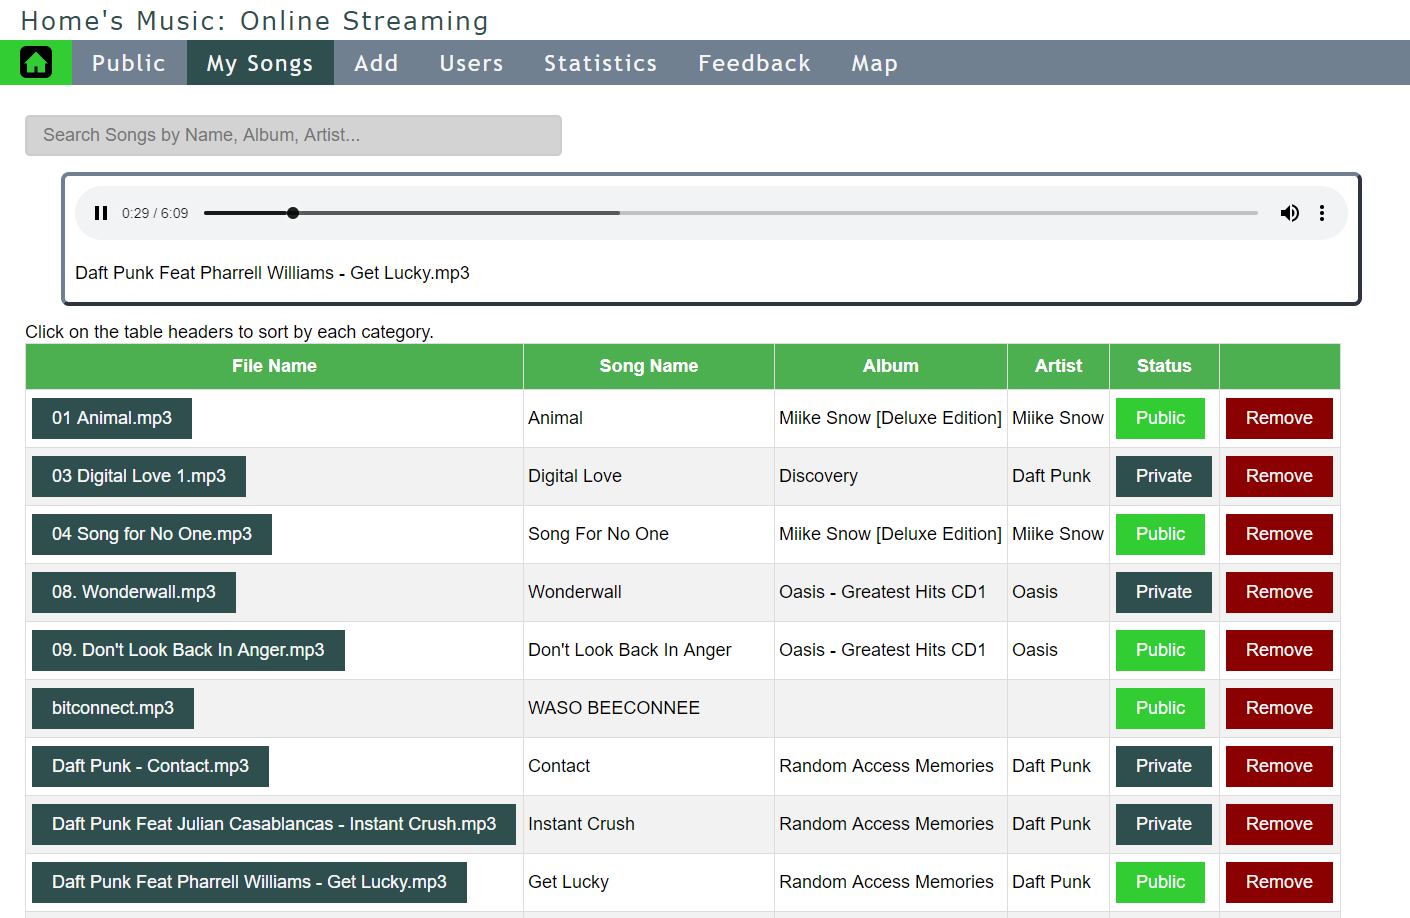
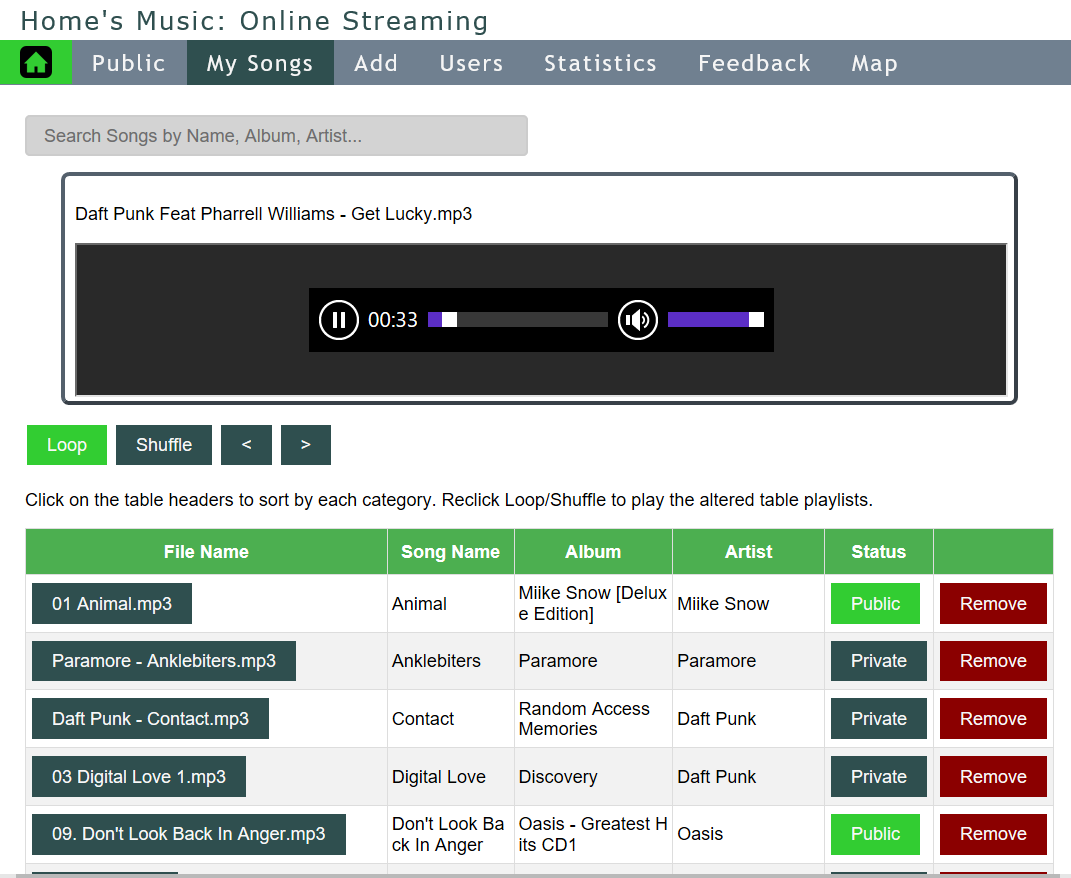
Fixed Chrome streaming slider. Also other fixes.

diff --git a/css/player.css b/css/player.css
@@ -2,10 +2,12 @@
     margin: 16px auto 16px;
     padding: 10px 10px 0 10px;
     width: calc(100% - 100px);
-    /*position:fixed; /* Puts the playerArea in one fixed spot */
     top: 100px;
     border: 4px outset slategray;
     border-radius: 8px;
+    overflow: hidden;
+    resize: both;
+    background-color: #f1f1f1;
 }
 
 #player {

diff --git a/Script/ajaxRequestSong.js b/Script/ajaxRequestSong.js
@@ -1,6 +1,6 @@
 function postSong(user, song) {
     $.ajax({
-        url: "PHP/playerModal.php",
+        url: "PHP/playerModalStream.php",
         data:'playSong='+song+'&userName='+user,
         type: "POST",
         success:function(data){

diff --git a/PHP/playerModalStream.php b/PHP/playerModalStream.php
@@ -10,7 +10,7 @@ if (isset($_POST['playSong'])) {
     echo "<div id='playerArea'>";
     echo "<p>".rawurldecode($file)."</p>";
     $url = "song.php?user=" . $_POST['userName'] . "&fileName=" . rawurlencode($file);
-    echo "<iframe src='$url' height='100'></iframe>";
+    echo "<iframe src='$url' height='150'></iframe>";
     echo "</div>";
 }
 ?>

diff --git a/song.php b/song.php
@@ -57,8 +57,6 @@ if (isset($_GET['fileName'])) {
     header("Content-Transfer-Encoding: chunked");
     $song = readfile($absolutePath);//your song directory
 
-    echo "<audio id=\"player\" controls autoplay><source src='" . $song . "'></audio>";
-
     ob_clean();
     flush();
 }
